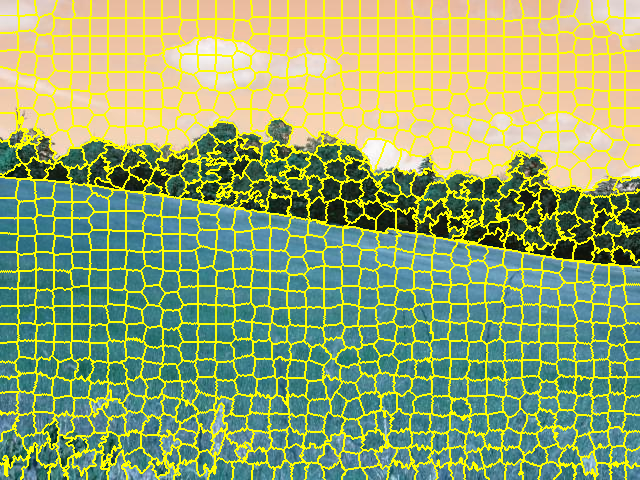
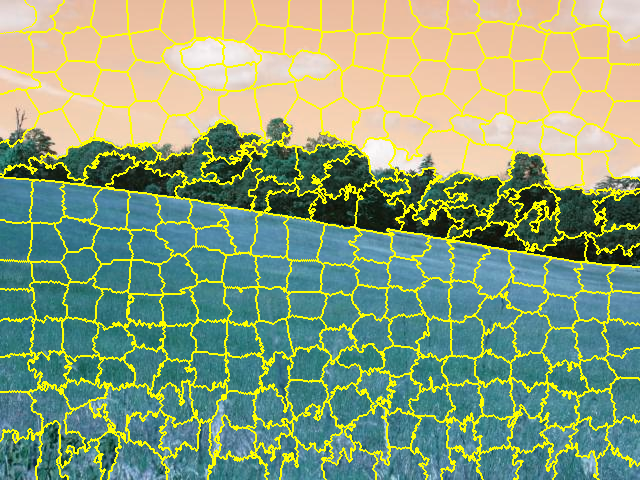
Clustering fixed

Changed region(s): [[0.0, 0.0, 1.0, 1.0]]

diff --git a/HW3/src/main.py b/HW3/src/main.py
@@ -4,6 +4,7 @@ import matplotlib.pyplot as plt
 
 from skimage.segmentation import slic
 from skimage.segmentation import mark_boundaries
+from skimage.color import label2rgb
 
 from src.load_data import load_images
 from src.gabor_filter import gabor_feature_extractions
@@ -22,8 +23,9 @@ images, _ = load_images()
 image = images[1]
 
 # Parameters
-num_of_super_pixels = 1000
-compactness = 15
+num_of_super_pixels = 300
+num_of_clusters = 8
+compactness = 10
 
 # For keeping labels of each image in dataset
 images_labels = []
@@ -41,7 +43,8 @@ for i, image in enumerate(images):
 	plt.imsave('../output/slic/segmented' + str(i) + '.png', segmented_image)
 
 # For keeping all average Gabors
-all_feature_matrices = []
+all_data = None
+super_pixel_count = []
 
 # -- Part 2 --
 for i, image in enumerate(images):
@@ -52,14 +55,45 @@ for i, image in enumerate(images):
 	for img in result_images:
 		cv2.imwrite('../output/gabor/image' + str(i) + '_wavelen' + str(img['wavelength']) + "_orient" + str(img['orientation']) + '.png', img['image'])
 
-	all_feature_matrices.append(average_gabors.flatten())
+	# Concatenating average Gabors
+	if all_data is None:
+		all_data = average_gabors
+	else:
+		all_data = np.concatenate((all_data, average_gabors), axis=0)
 
-labels, centers = apply_k_means(np.asarray(all_feature_matrices), 9)
+	# Keeping super pixel counts
+	super_pixel_count.append(average_gabors.shape[0])
 
-centers = np.uint8(centers)
-res = centers[labels.flatten()]
-res2 = res.reshape(image.shape)
 
-cv2.imwrite('../output/clustering.png', res2)
+# -- Part 3 --
+
+# Applying the K-Means
+k_labels, k_centers = apply_k_means(np.float32(all_data), num_of_clusters)
+clusters = []
+
+# Getting the cluster matrices for each image
+for i, image in enumerate(images):
+	img_label = images_labels[i]
+	h, w = img_label.shape
+
+	cluster = np.zeros((h, w), dtype=np.uint8)
+	counter = 0
+
+	for ii in range(h):
+		for jj in range(w):
+			label = img_label[ii, jj]
+			cluster_id = k_labels[label + counter]
+			cluster[ii, jj] = cluster_id
+
+	clusters.append(cluster)
+	counter += super_pixel_count[i]
+
+# Saving the clusters
+for i, cluster in enumerate(clusters):
+	overlay_img = label2rgb(cluster, images[i], image_alpha=0)
+	plt.imsave('../output/cluster/cluster' + str(i) + '.png', overlay_img)
+
+
+
 
 
